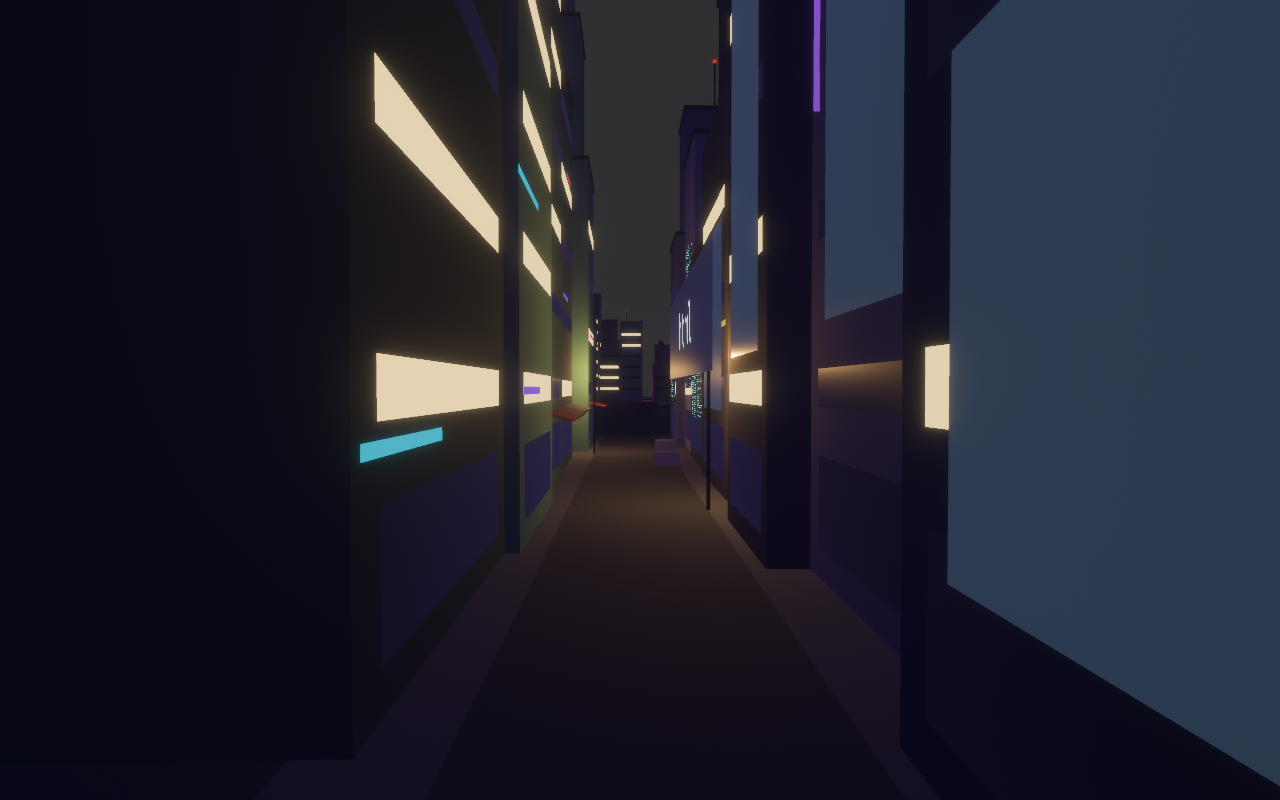
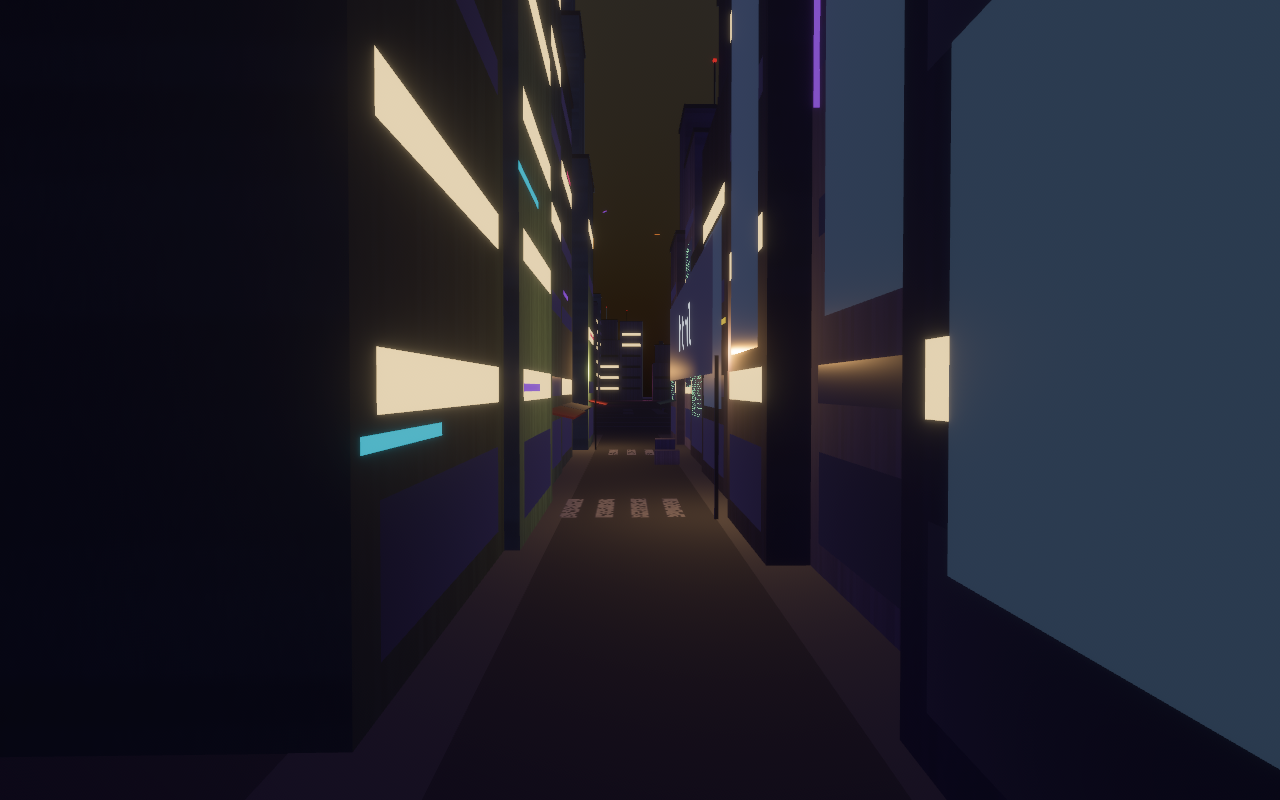
Fix atmosphere: planet-center transform, AtmosphereSettings + sky environment light on cameras; verified day/night street shots; release build

diff --git a/src/atmo.rs b/src/atmo.rs
@@ -72,10 +72,10 @@ fn setup_sky(
 ) {
     ambient.color = Color::srgb(0.6, 0.62, 0.9);
     ambient.brightness = 80.0;
-    commands.spawn((
-        Atmosphere::earth(mediums.add(ScatteringMedium::default())),
-        Transform::default(),
-    ));
+    // The entity's transform is the planet center: put the surface at y=0.
+    let atmosphere = Atmosphere::earth(mediums.add(ScatteringMedium::default()));
+    let planet_center = Vec3::NEG_Y * atmosphere.inner_radius;
+    commands.spawn((atmosphere, Transform::from_translation(planet_center)));
     commands.spawn((
         Sun,
         DirectionalLight {
@@ -230,9 +230,11 @@ fn day_night_cycle(
         light.color = Color::srgb(c.x, c.y, c.z);
     }
 
+    // Sky IBL (AtmosphereEnvironmentMapLight) provides most ambient light;
+    // this is just a floor so alleys never go pitch black.
     let amb = Vec3::new(0.75, 0.85, 1.0).lerp(Vec3::new(0.50, 0.42, 0.85), nf);
     ambient.color = Color::srgb(amb.x, amb.y, amb.z);
-    ambient.brightness = 260.0 - 210.0 * nf;
+    ambient.brightness = 120.0 - 70.0 * nf;
 
     let fog_end_day = meta
         .map(|m| (m.half_extent * 2.4).clamp(150.0, 420.0))

diff --git a/src/player.rs b/src/player.rs
@@ -87,6 +87,10 @@ fn spawn_player(mut commands: Commands, meta: Res<CityMeta>) {
             parent.spawn((
                 Camera3d::default(),
                 Hdr,
+                // Required for the procedural sky to render on this camera.
+                bevy::pbr::AtmosphereSettings::default(),
+                // Sky-driven ambient light and reflections.
+                bevy::light::AtmosphereEnvironmentMapLight::default(),
                 Projection::Perspective(PerspectiveProjection {
                     fov: BASE_FOV_DEG.to_radians(),
                     ..default()

diff --git a/src/main.rs b/src/main.rs
@@ -177,6 +177,8 @@ fn debug_screenshot(
         commands.spawn((
             Camera3d::default(),
             Hdr,
+            bevy::pbr::AtmosphereSettings::default(),
+            bevy::light::AtmosphereEnvironmentMapLight::default(),
             Camera {
                 order: 5,
                 ..default()
